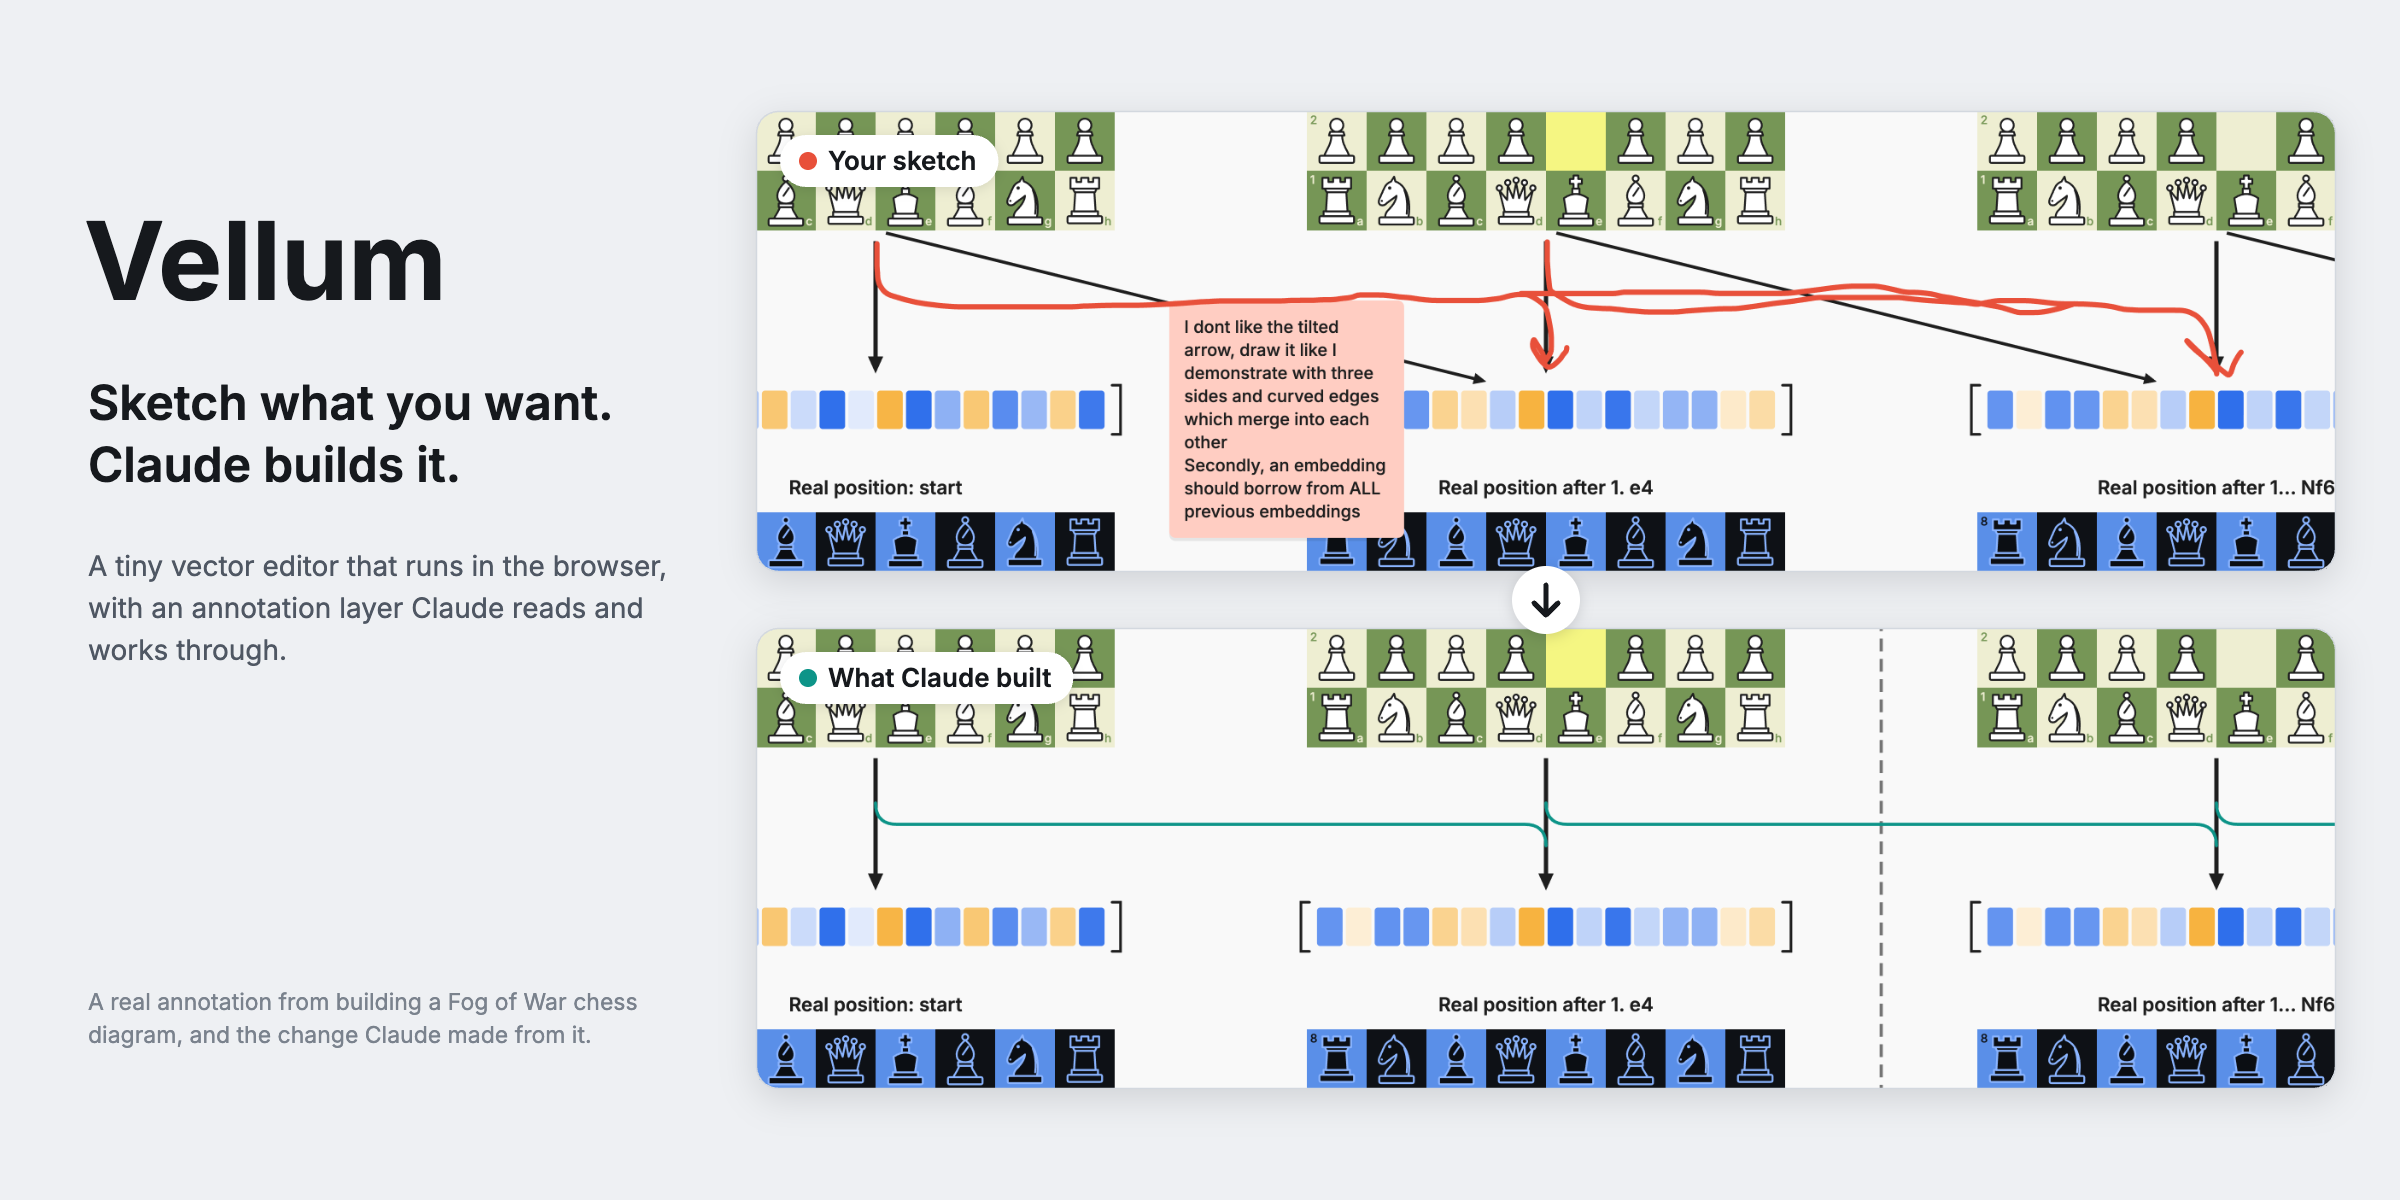
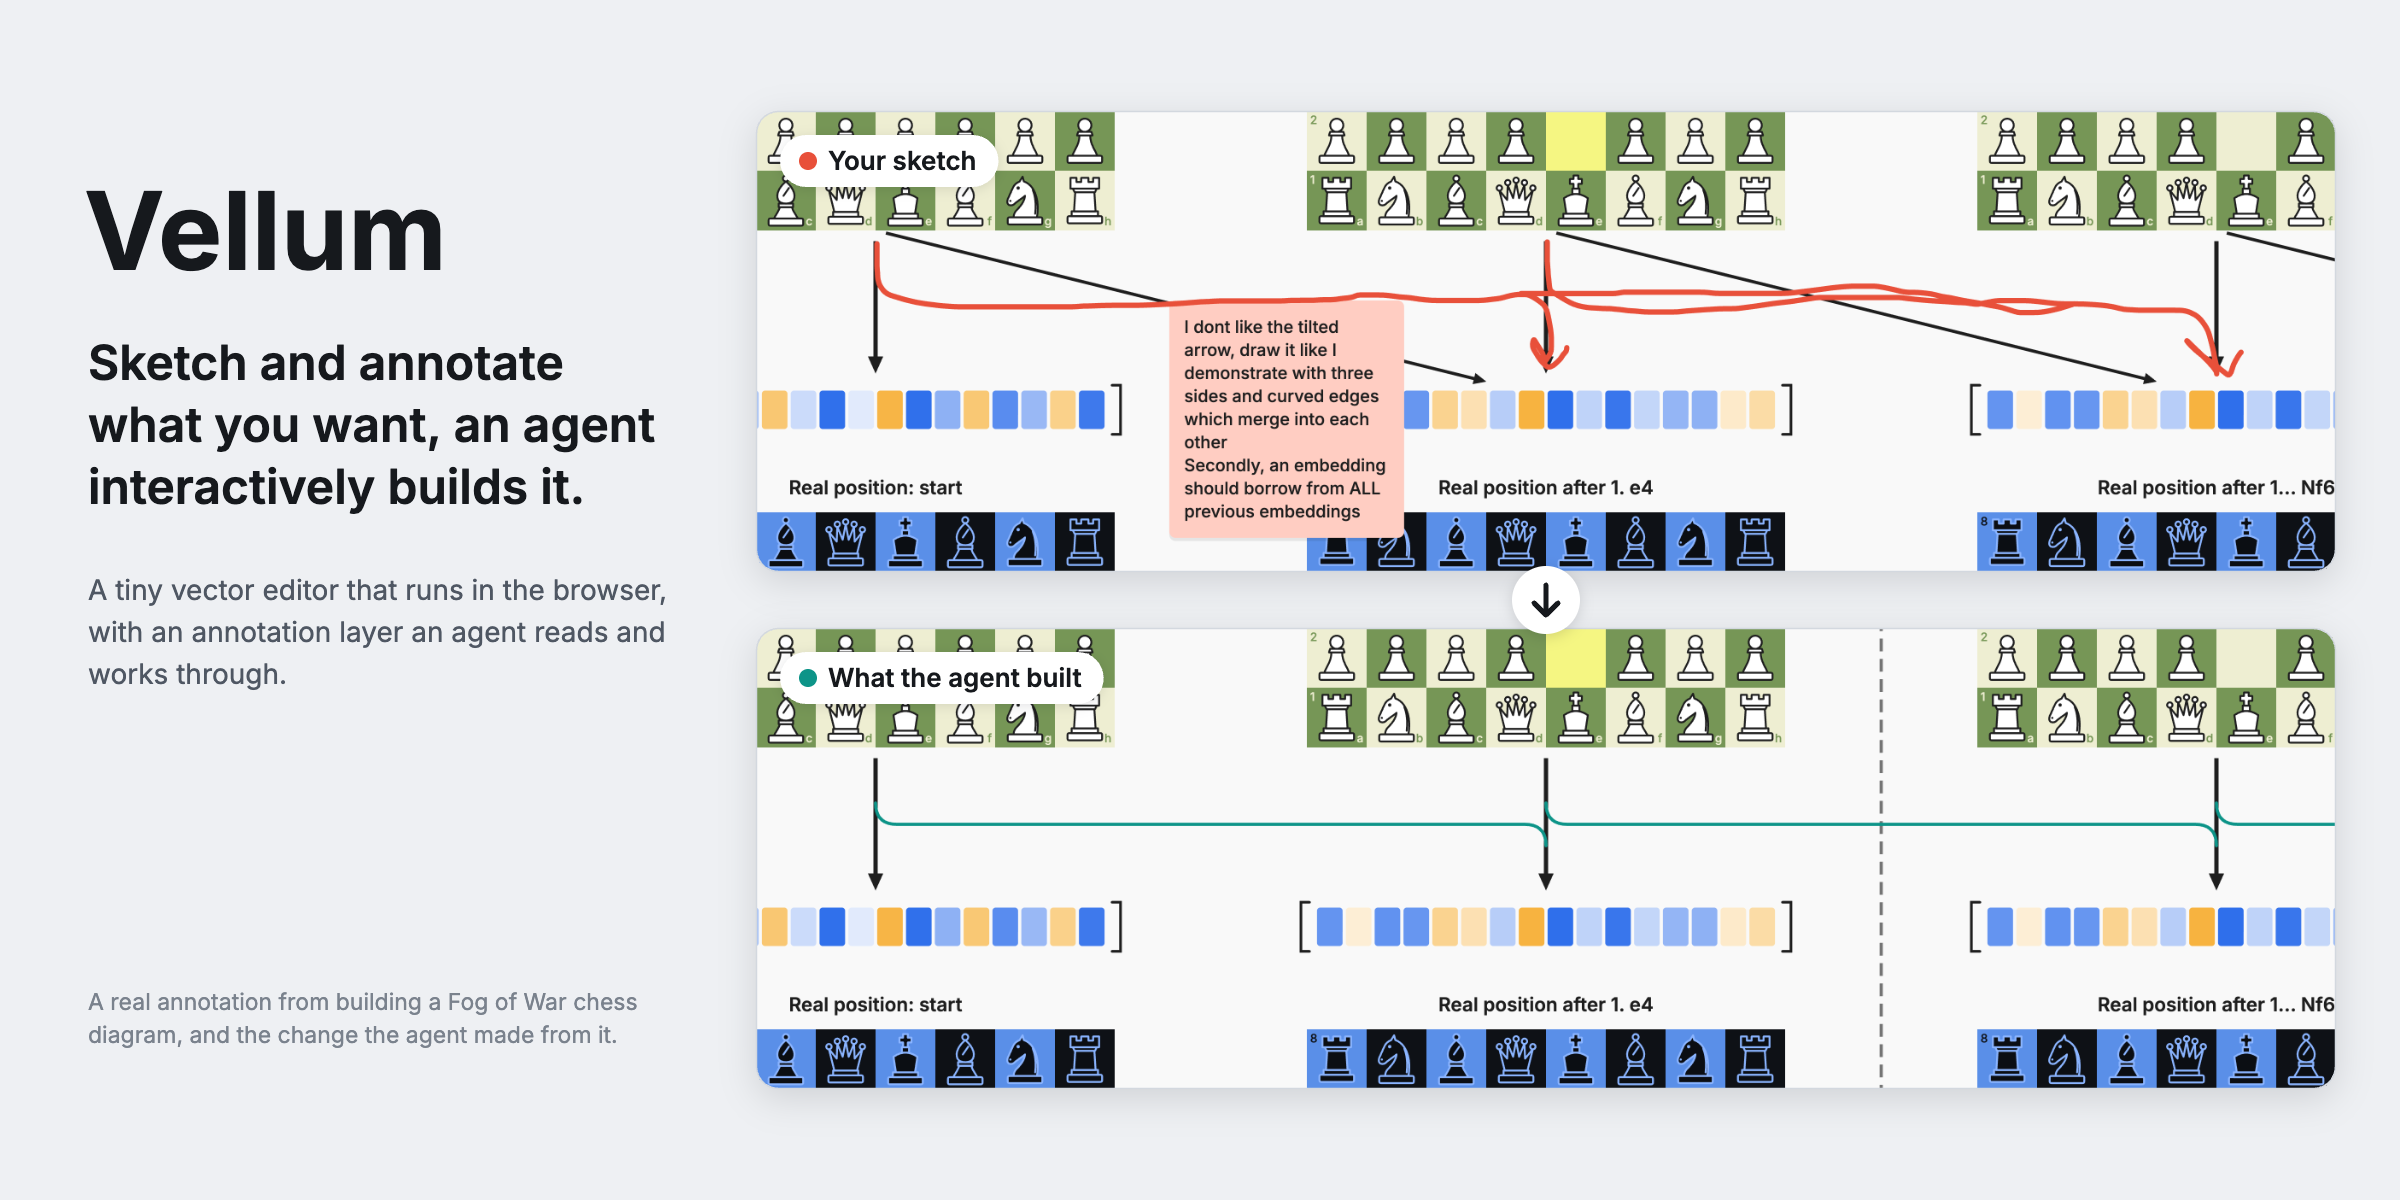
Make the README and cover agent-neutral
Any agent that can read files can work on Vellum's annotations, so the
cover and README now say "an agent" instead of Claude. The cover's line
reads "Sketch and annotate what you want, an agent interactively
builds it."

Claude is still named where only Claude applies: the full sync, reply
and resolve loop runs through a Claude artifact, and CLAUDE.md is
written for Claude Code.

diff --git a/README.md b/README.md
@@ -1,14 +1,14 @@
 # Vellum
 
-![Vellum: a sketched annotation above the change Claude made from it](docs/cover.png)
+![Vellum: a sketched annotation above the change an agent made from it](docs/cover.png)
 
-Vellum is a small vector editor that runs in the browser: three files, no build step and no dependencies. You draw diagrams, export them as SVG or PNG, and mark them up with sketches and notes that Claude reads and works through.
+Vellum is a small vector editor that runs in the browser: three files, no build step and no dependencies. You draw diagrams, export them as SVG or PNG, and mark them up with sketches and notes that an agent reads and works through.
 
 ## Features
 
 - **Diagrams.** Rectangles, ellipses, text, vector paths, images and connector arrows, organised in pages, layers, groups and sections.
 - **Annotations.** Sketch what you want, point with arrows, highlight layers and leave notes, all in their own layer. Each annotation is a small thread you can reply to and resolve.
-- **Readable by Claude.** Each annotation carries a plain-language description of what it points at, so Claude knows what a mark refers to.
+- **Readable by agents.** Synced annotations carry a plain-language description of what each one points at, so an agent knows what a mark refers to.
 - **Export.** Export a selection or a whole page as SVG, with the Inter font embedded, or as PNG. A batch exporter renders many at once.
 - **Plain JSON documents.** They are easy to generate from a script and easy to diff.
 
@@ -22,15 +22,19 @@ python3 tools/devserver.py 8765
 
 Then open http://127.0.0.1:8765. Python 3 is the only requirement.
 
-## Working with Claude
+## Working with an agent
 
 1. **Mark up the diagram.** Sketch what you want with the pen (P), point with arrows (A) and highlights (M), and write instructions in notes (N).
-2. **Ask Claude to work on the annotations.** Claude looks at each one on its own, as an image, and makes the change. Then it replies on the annotation and resolves it.
-3. **Answer questions on the annotation.** If something is unclear, Claude asks there and leaves the annotation open. Reply on it to continue.
+2. **Ask your agent to work on the annotations.** The agent looks at each annotation on its own, as an image, and makes the change. Then it replies on the annotation and resolves it.
+3. **Answer questions on the annotation.** If something is unclear, the agent asks there and leaves the annotation open. Reply on it to continue.
 
-Annotations reach Claude when Vellum is published as a Claude artifact: they sync to the artifact's database, where Claude reads them and replies. Run locally, they stay in the browser's autosave and in saved files. [CLAUDE.md](CLAUDE.md) is the guide Claude follows.
+Annotations are saved inside the document's JSON, so any agent that can read files can work on them.
 
-The cover shows a real round. The note and red sketch asked for a three-sided rail with rounded corners instead of tilted arrows. The panel below shows what Claude built.
+The full loop of syncing, replies and resolving runs when Vellum is published as a Claude artifact. There, annotations sync to the artifact's database with their plain-language descriptions, and Claude reads them, replies and resolves them.
+
+[CLAUDE.md](CLAUDE.md) is the step-by-step guide. It is written for Claude Code, but the steps carry over to other agents.
+
+The cover shows a real round. The note and red sketch asked for a three-sided rail with rounded corners instead of tilted arrows. The panel below shows what the agent built.
 
 ## Example: Fog of War
 

diff --git a/docs/reference.md b/docs/reference.md
@@ -1,6 +1,6 @@
 # Vellum reference
 
-The details behind the [README](../README.md): shortcuts, the annotation tools, the document format, batch export and the annotation data Claude reads.
+The details behind the [README](../README.md): shortcuts, the annotation tools, the document format, batch export and the annotation data an agent reads.
 
 ## Keyboard shortcuts
 
